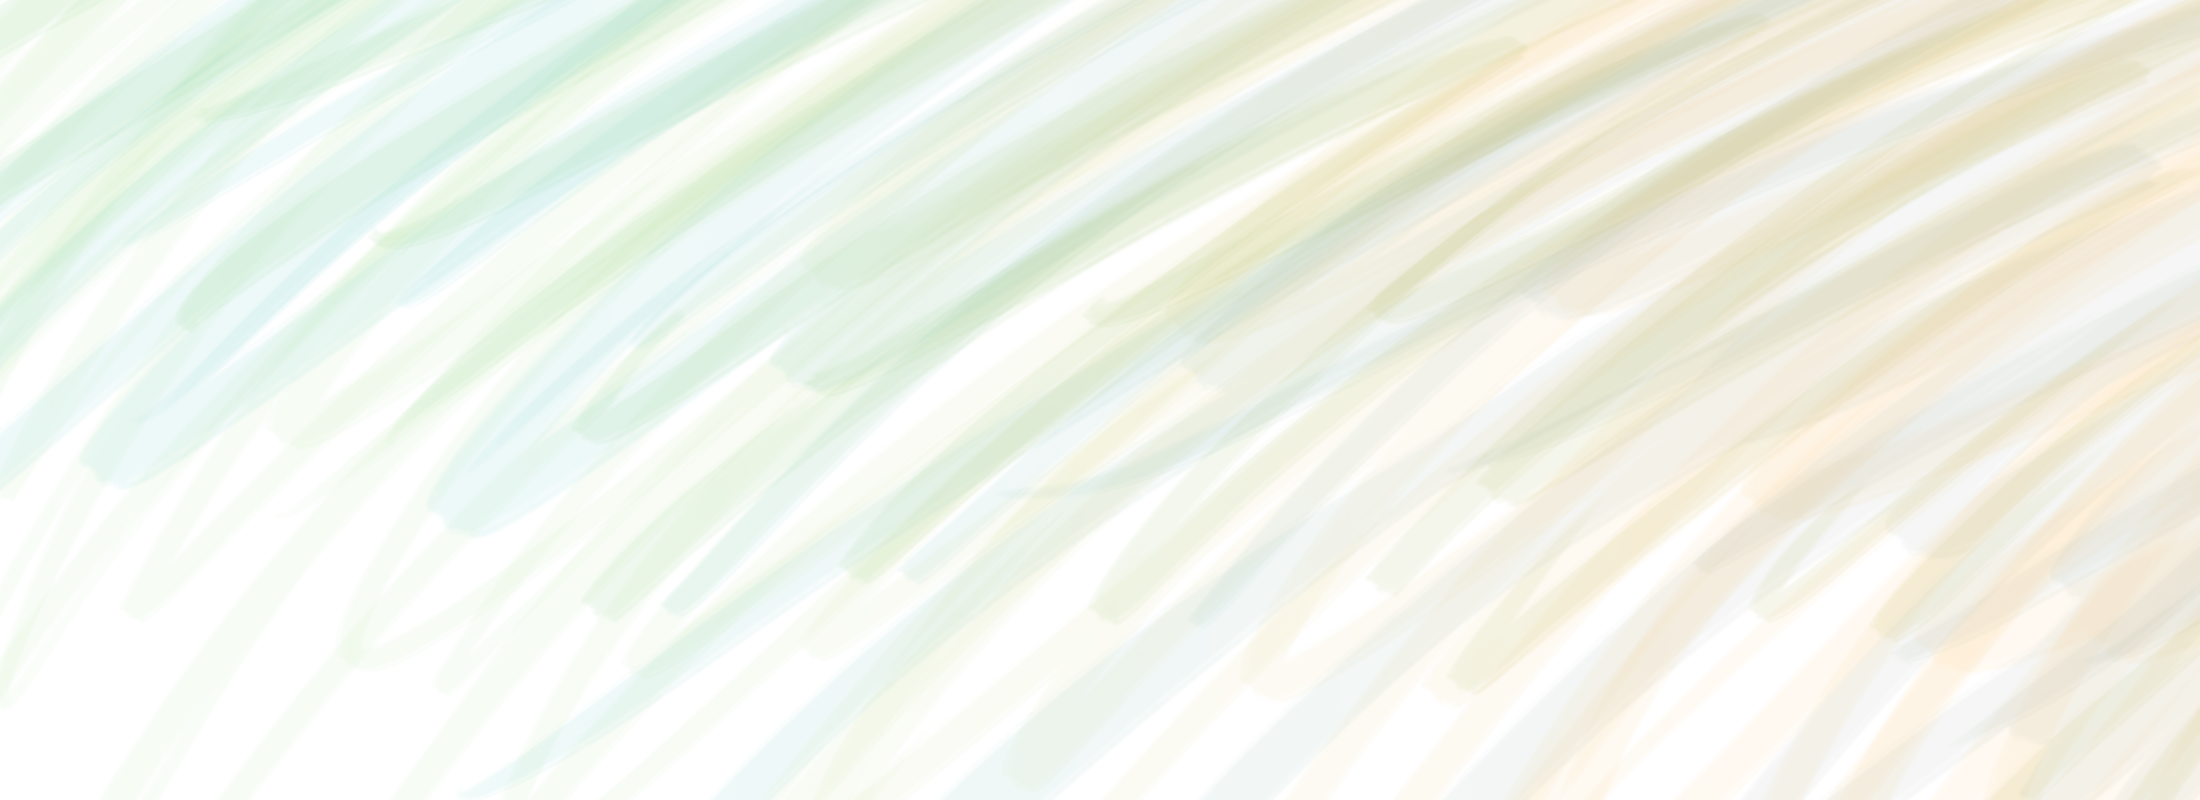
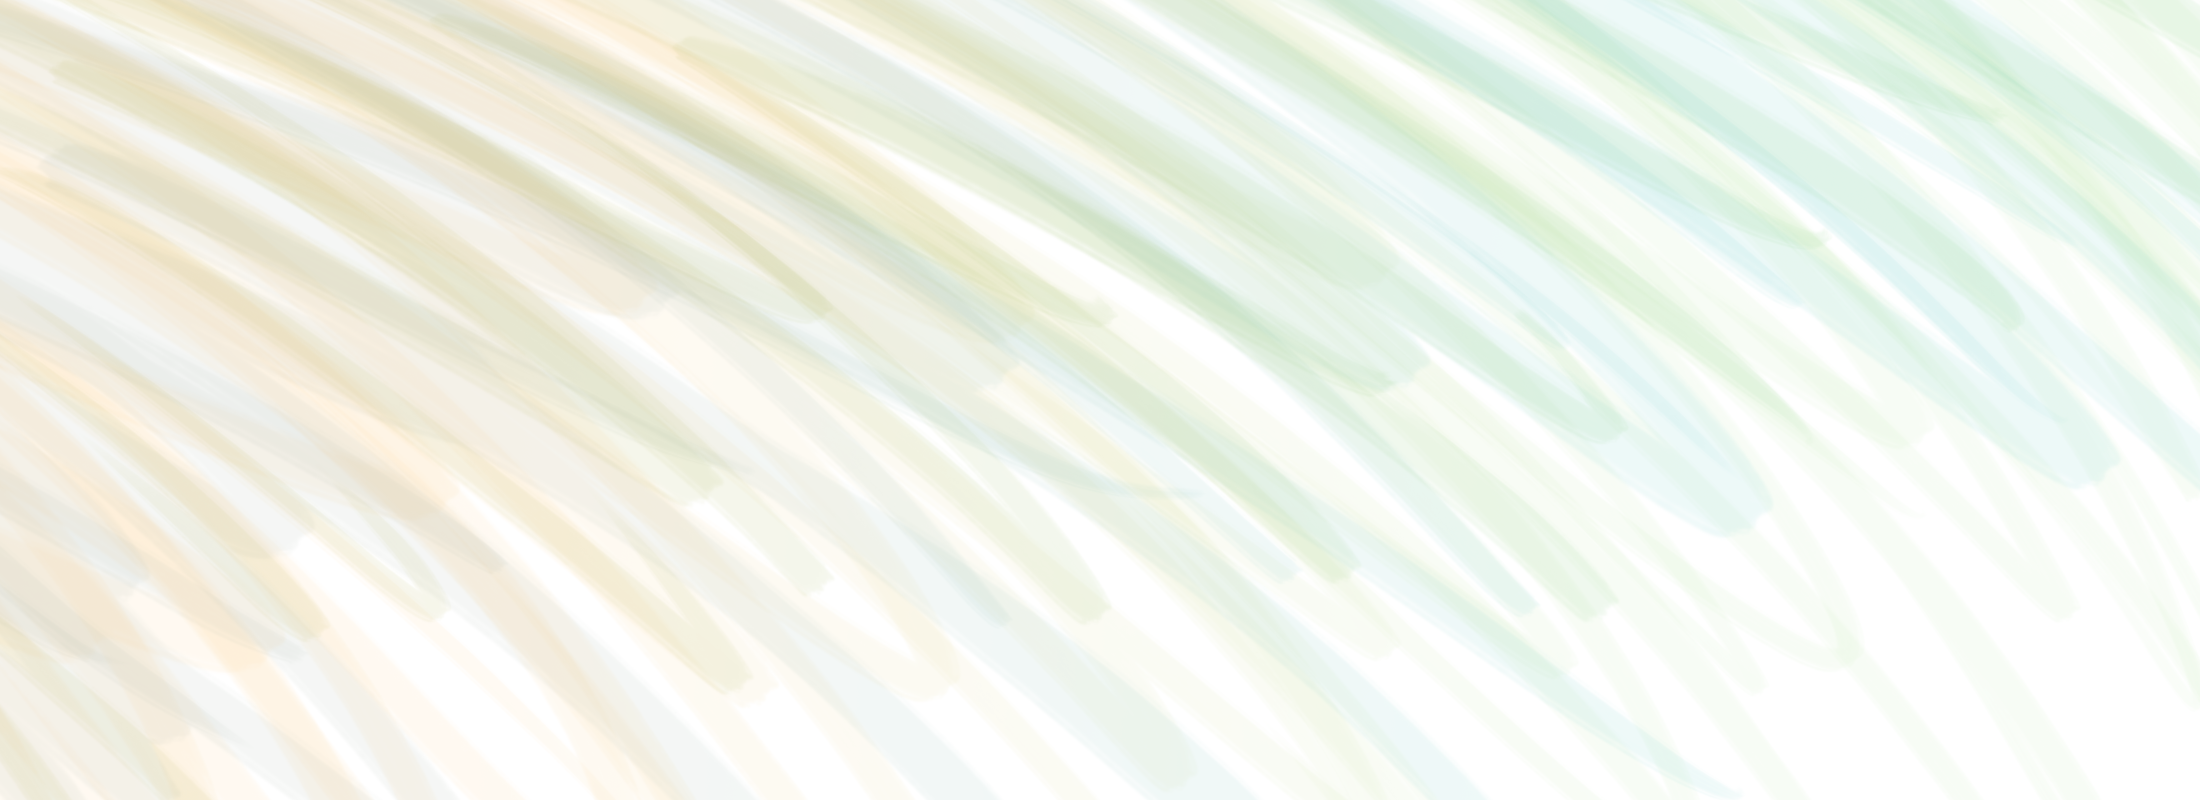
testing backgrounds flipping one

diff --git a/static/css/style.css b/static/css/style.css
@@ -24,12 +24,6 @@ canvas
 {
     background: url("../assets/transparentbg2.png");
     background-position: -100px -100px;
-    -moz-transform: scaleX(-1);
-    -o-transform: scaleX(-1);
-    -webkit-transform: scaleX(-1);
-    transform: scaleX(-1);
-    filter: FlipH;
-    -ms-filter: "FlipH";
 }
 
 h1
